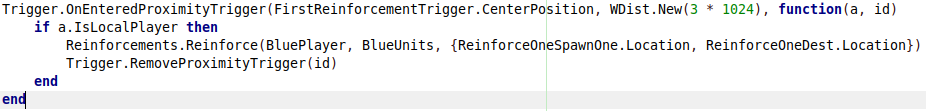
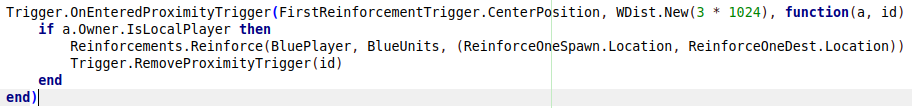
Correction of a flaw in one of the instructions

Changed region(s): [[0.0, 0.0278, 1.0, 0.6667], [0.0, 0.8333, 0.0614, 0.9722], [0.0307, 0.6944, 0.0921, 0.8056]]

diff --git a/content/openratut/mapscript.html b/content/openratut/mapscript.html
@@ -127,7 +127,7 @@
             <img src="./images/reinforceonefinished.png" width="600" />
             <p>Great! Now we can rinse and repeat for the other side of the map. You can copy and paste the same trigger we just implemented right underneath the original, and then replace all the 1's with 2's and the <i>first's</i> with <i>seconds</i>. It should look like this:</p>
             <img src="./images/reinforcetwofinished.png" width="600" />
-            <p>All finished, right? Well, if you were a keen eye you'd notice something's off about these triggers. These are going to activate if <i>any</i> unit moves within its radius, but we only want it to happen when the blue units step into the radius. This is why we needed that <b>a</b> from before, as this will go into an <b>if</b> statement that will check to see if the unit that stepped into the radius belongs to the player. Go ahead and reimplement those two lines inside the trigger only this time with the conditional <code>a.IsLocalPlayer</code>. It should look like this when finished:</p>
+            <p>All finished, right? Well, if you were a keen eye you'd notice something's off about these triggers. These are going to activate if <i>any</i> unit moves within its radius, but we only want it to happen when the blue units step into the radius. This is why we needed that <b>a</b> from before, as this will go into an <b>if</b> statement that will check to see if the unit that stepped into the radius belongs to the player. Go ahead and reimplement those two lines inside the trigger only this time with the conditional <code>a.Owner.IsLocalPlayer</code>. It should look like this when finished:</p>
             <img src="./images/reinforceoneactual.png" width="650" />
             <p>Then do the same for the second trigger:</p>
             <img src="./images/reinforcetwoactual.png" width="650" />
